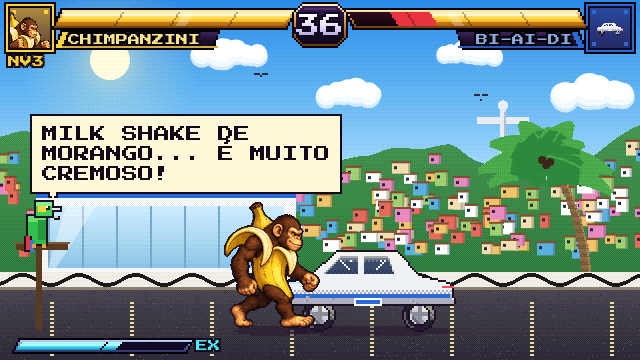
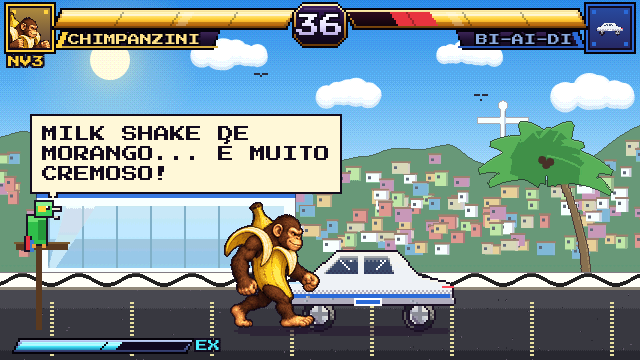
docs: cenários, versus contra a CPU e escolha do cenário; snapshots e arte atualizados
Snapshots mudaram só nos pixels dos cenários; a vida final das 13 lutas
de referência é a mesma.

diff --git a/docs/jogo/02-modos-e-telas.md b/docs/jogo/02-modos-e-telas.md
@@ -23,7 +23,7 @@ Uma abertura no estilo dos arcades dos anos 90 (era Neo-Geo), com a identidade d
 | Item | Modo (`S.mode`) | O que faz |
 |------|-----------------|-----------|
 | **HISTÓRIA** | `arcade` | Campanha completa: prólogo, 7 lutas em ordem aleatória com viagens pelo mapa, 3 fases bônus, chefe final e final próprio do personagem. |
-| **VERSUS** | `versus` | Dois jogadores no mesmo teclado, cenário sorteado (entre os 10 de luta). Os dois ganham XP. |
+| **VERSUS** | `versus` | Luta avulsa no cenário que você escolher. Ao escolher o modo, abre uma sub-opção: **1P VS CPU** (você escolhe o seu lutador e o rival; a CPU usa a dificuldade de OPÇÕES e só você ganha XP) ou **1P VS 2P** (dois jogadores no mesmo teclado; os dois ganham XP). |
 | **BÔNUS** | `bonus` | Escolha um lutador e um carro e destrua-o para farmar XP. Dá para repetir quantas vezes quiser. |
 | **TREINO** | `training` | Boneco parado, vida infinita, sem cronômetro, barra que recarrega sozinha e leitura do dano do combo. **Tab** mostra as hitboxes. |
 | **COMANDOS** | – | Lista de golpes em duas páginas (← → troca de página). |
@@ -49,7 +49,7 @@ flowchart TD
   C -->|tempo| T
   MAP -->|8ª parada| BI[Intro do chefe] --> VS
   R -->|venceu o chefe| E[Derrota do chefe + final + epílogo] --> END[Créditos]
-  S -->|versus| VS
+  S -->|versus| SS[Escolha do cenário] --> VS
   S -->|treino| TR[Treino]
   S -->|bônus| CS[Escolha do carro] --> B
 ```
@@ -60,7 +60,8 @@ flowchart TD
 |------|----------|
 | **Título** | O logo cai com um "slam" e um flash, com estrelinhas brilhando nas letras. Ao fundo, os anéis de Saturno, raios girando e La Vacca Saturnita gigante e translúcida. O elenco sobe um a um na base da tela. **APERTE START** pisca e a faixa de baixo mostra o XP total, "© 2026 TUPINICODE" e "FREE PLAY". |
 | **Menu** | Depois do START, o elenco desce e entram as placas inclinadas dos modos (a escolhida fica dourada, maior e com brilho correndo) e o cartão do modo, com a descrição e um lutador ao fundo. **Esc** volta para a tela de START. |
-| **Seleção** | Grade com os 8 lutadores e o nível de cada um. No modo solo, mostra as barras VEL/FOR/DEF/ALC, o especial e a barra de XP. No versus, 1P e 2P escolhem ao mesmo tempo (com cores alternativas no espelho). |
+| **Seleção** | Grade com os 8 lutadores e o nível de cada um. No modo solo, mostra as barras VEL/FOR/DEF/ALC, o especial e a barra de XP. No versus 2P, 1P e 2P escolhem ao mesmo tempo (com cores alternativas no espelho). No versus CPU, o 1P escolhe o próprio lutador e depois o rival ("ESCOLHA O RIVAL (CPU)"); o chute desfaz a primeira escolha. |
+| **Escolha do cenário** | Só no versus, depois dos lutadores. Prévia ao vivo do cenário (com animações e a música dele), os retratos dos dois lutadores nas laterais, o nome do lugar e uma grade com os 13 cenários mais **ALEATÓRIO** (sorteia entre os 10 de luta). **Esc** ou chute volta para a seleção de personagens. |
 | **VS** | Os dois lutadores entram deslizando em 2×, o "VS" pulsa e o locutor anuncia "*Tralalero Tralalà… contro… Tung tung tung Sahur!*". Enquanto isso o jogo pré-renderiza as poses dos dois. |
 | **Luta** | HUD no estilo Neo-Geo (veja abaixo). **Enter** ou **Esc** pausa. |
 | **Resultado** | Pose de vitória em 2×, frase de vitória com efeito de máquina de escrever, XP ganho e "LEVEL UP!". |

diff --git a/docs/tecnico/04-pintura-de-cenarios.md b/docs/tecnico/04-pintura-de-cenarios.md
@@ -1,6 +1,6 @@
 # 04 · Pintura dos cenários
 
-Os cenários não são imagens: são **pintados em código** no carregamento do jogo, e depois quantizados para ficar com cara de pixel art.
+Os cenários não são imagens: são **pintados em código** no carregamento do jogo, e depois convertidos em pixel art moderna, no mesmo estilo dos sprites.
 
 Código: [`src/game/stages/toolkit.js`](../../src/game/stages/toolkit.js) (ferramentas) e um arquivo por cenário em [`src/game/stages/`](../../src/game/stages).
 
@@ -44,12 +44,25 @@ Os ganchos desenham em pixels nativos dentro de `HDC(ctx, fn)`, que aplica `scal
    | `perspTiles` | Piso em perspectiva (xadrez do café) |
    | `speck` | Pontilhado de textura (areia, grama, asfalto) |
 
-2. **Quantizar** cada camada com `quant(canvas, níveis)`: posterização por canal (14 a 16 níveis) com **dithering Bayer 4×4**, e **alfa binário** nas camadas transparentes. Isso remove o antisserrilhado e deixa as bordas nítidas e os gradientes pontilhados, combinando com os sprites.
+2. **Converter em pixel art** em `finish()`, com [`stages/pixelize.js`](../../src/game/stages/pixelize.js):
+
+   | Camada | Tratamento |
+   |--------|------------|
+   | `sky` | Posterização com **dithering Bayer 4×4** (`quant`): o degradê do céu fica em faixas pontilhadas. |
+   | `far` | **Faixas de brilho** (12) sem dithering, **perspectiva atmosférica** (30% em direção à cor do horizonte, um pouco dessaturada) e contorno suave. |
+   | `mid` | Faixas de brilho (16), um toque de névoa, **contorno** de 1 px nas silhuetas e **luz de borda** na linha logo abaixo de cada topo. |
+   | `floor` | Faixas de brilho (16), contorno e luz de borda. |
+
+   - **Faixas de brilho com o matiz preservado:** a luminância de cada pixel é arredondada para N faixas (espaçadas em raiz quadrada, para cenas escuras não perderem os degraus) e a cor é reescalada mantendo o matiz. Assim os degradês viram rampas de sombra limpas, como numa paleta feita à mão. A posterização canal por canal criava manchas com mudança de cor.
+   - **Contorno seletivo:** pixels opacos vizinhos de pixels transparentes escurecem em direção ao roxo do contorno dos sprites (`#1b1024`), em vez de preto puro.
+   - **Limpeza:** pixels soltos, cercados pela mesma cor nos 4 lados, assumem essa cor.
+   - **Alfa binário** em todas as camadas transparentes, sem antisserrilhado.
+   - `pixelize()` também aceita uma paleta limitada (`colors`, k-means determinístico) com dithering entre faixas, para usos futuros.
 3. **Aleatoriedade com semente:** cada cenário chama `setSeed(n)` antes de pintar e usa `rr()` em vez de `Math.random()`. O resultado é idêntico em todo carregamento (e os testes comparam pixels).
 
 ## Desempenho
 
-Pintar os 13 cenários leva cerca de 2 s num notebook, uma única vez no boot (`buildStages()` guarda o resultado). Os ganchos de animação são baratos: só retângulos e algumas elipses por quadro.
+Pintar e converter os 13 cenários leva cerca de 0,5 s, uma única vez no boot: a tela de carregamento pinta um cenário por quadro e `buildStages()` guarda o resultado. Os ganchos de animação são baratos: só retângulos e algumas elipses por quadro.
 
 ## Criar um cenário novo
 

diff --git a/docs/jogo/01-visao-geral.md b/docs/jogo/01-visao-geral.md
@@ -13,7 +13,7 @@ Muito além da internet existe **Brainrotália**, a terra paralela onde moram os
 | **Luta arcade de verdade** | Correntes, cancelamentos em especial, uppercut com comando (→↓↘), agarrão, EX e Super, juggle, escalonamento de dano e hitboxes medidas a partir dos próprios pixels dos sprites. |
 | **Humor brainrot** | Cada lutador fala com o próprio bordão em italiano, as cutscenes são dramáticas de propósito e as fases bônus homenageiam memes brasileiros e da internet. |
 | **Tudo gerado no navegador** | Não existe nenhum arquivo de áudio: as 21 músicas saem de um sintetizador FM e os 13 cenários são pintados em código quando o jogo carrega. |
-| **Pixel art moderna** | Sprites desenhados à mão em resolução 2×, cenários pintados com gradientes e quantizados com dithering Bayer, para manter tudo com o mesmo visual. |
+| **Pixel art moderna** | Sprites desenhados à mão em resolução 2×, cenários pintados em código e convertidos no mesmo estilo (faixas de luz chapadas, contorno nas silhuetas, perspectiva atmosférica), para manter tudo com o mesmo visual. |
 | **Pega e joga** | Teclado (1 ou 2 jogadores no mesmo teclado), controles de toque no celular, progresso salvo no próprio navegador. |
 
 ## Em números

diff --git a/README.md b/README.md
@@ -141,7 +141,7 @@ Fichas completas, falas e rivalidades em [docs/jogo/05-personagens.md](docs/jogo
 ### 🎵 Tudo gerado ao vivo
 - **21 músicas** de um sintetizador FM de 2 operadores (família YM2151)
 - 25 efeitos sonoros, reverb e delay, **zero arquivos de áudio**
-- **13 cenários pintados em código** e quantizados em pixel art com dithering Bayer
+- **13 cenários pintados em código** e convertidos em pixel art moderna: faixas de luz sem granulado, contorno nas silhuetas e perspectiva atmosférica
 
   </td>
   <td valign="top">
@@ -149,7 +149,7 @@ Fichas completas, falas e rivalidades em [docs/jogo/05-personagens.md](docs/jogo
 ### 🚗 Fases bônus e progressão
 - Destrua a **Macchina del Nonno**, o **Cybercaminhão** de "vidro blindado" e o **Bi-ai-di** (com papagaio do milk shake 🦜)
 - **XP e níveis 1–10** por personagem, salvos no navegador
-- Versus local, Treino com leitura de dano e **modo celular**: tela cheia na horizontal com D-pad de 8 direções e botões sobre o jogo
+- Versus **contra a CPU ou local**, Treino com leitura de dano e **modo celular**: tela cheia na horizontal com D-pad de 8 direções e botões sobre o jogo
 
   </td>
   </tr>

diff --git a/docs/tecnico/02-motor-e-loop.md b/docs/tecnico/02-motor-e-loop.md
@@ -61,6 +61,7 @@ Uma cena é um objeto simples com `update()`, `draw()` e, opcionalmente, `enter(
 | `Select`, `CarSelect` | `scenes/select.js`, `scenes/car-select.js` | objeto |
 | `VS(c1, c2, cenário, opts, rótulo)` | `scenes/vs.js` | fábrica |
 | `FightScene(fight, aoTerminar)` | `scenes/fight-scene.js` | fábrica (pausa com continuar/reiniciar/hitboxes/sair + Tab) |
+| `StageSelect(c1, c2, opts, rótulo)` | `scenes/stage-select.js` | fábrica (escolha do cenário no versus) |
 | `Result(f, lado, opts, xp)` | `scenes/result.js` | fábrica |
 | `Travel(de, para, próximo)` | `scenes/travel.js` | fábrica |
 | `Cutscene(painéis, próximo, rival)` | `scenes/cutscene.js` | fábrica |

diff --git a/docs/jogo/08-cenarios.md b/docs/jogo/08-cenarios.md
@@ -25,7 +25,7 @@ Código: [`src/game/stages/`](../../src/game/stages), um arquivo por cenário.
 ## Onde cada cenário aparece
 
 - **História:** cada rival luta na própria casa; o chefe luta em Saturno.
-- **Versus:** um dos cenários 0 a 9, sorteado.
+- **Versus:** o jogador escolhe qualquer um dos 13 na tela de escolha do cenário (ou ALEATÓRIO, entre os 10 de luta).
 - **Treino:** um dos cenários 0 a 10, sorteado.
 - **Bônus:** Strada (Nonno), Neon Città (Cybercaminhão) e Vila Brasilini (Bi-ai-di).
-- **Título:** a Piazza, com a câmera passeando devagar.
+- **Título:** os anéis de Saturno, escurecidos, com a câmera passeando devagar.

diff --git a/docs/jogo/10-progressao-e-dificuldade.md b/docs/jogo/10-progressao-e-dificuldade.md
@@ -31,7 +31,7 @@ XP = rounds vencidos × 40
    + 400 se derrotou o chefe
 ```
 
-- No **versus**, os dois jogadores ganham XP.
+- No **versus 2P**, os dois jogadores ganham XP. No **versus CPU**, só o jogador; a CPU luta com o mesmo nível de XP do lutador do jogador.
 - As **fases bônus** pagam à parte (veja [09-fases-bonus-e-memes.md](09-fases-bonus-e-memes.md#xp)).
 - O "LEVEL UP!" aparece na tela de resultado, com som e a voz do locutor.
 
